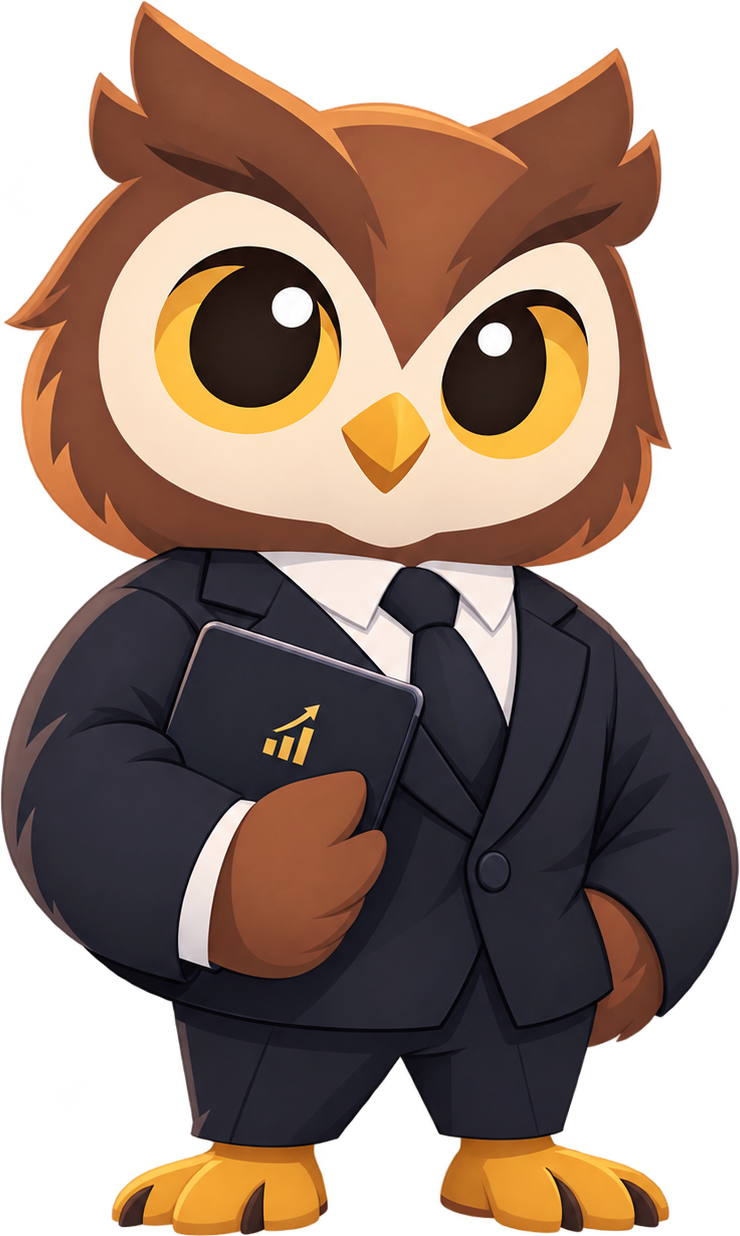
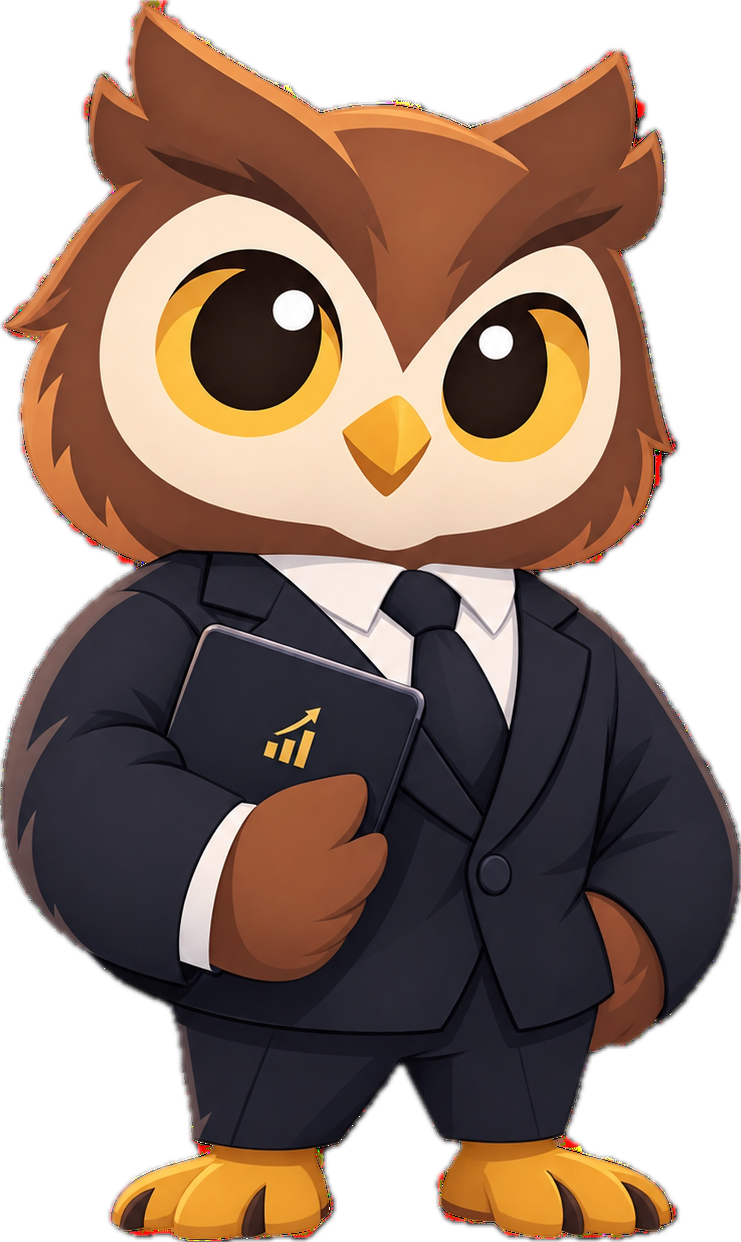
Your new full-body Hoot (the suited owl with the growth tablet) is now the mascot everywhere — shown as the complete image with transparent background, no cropping:
- Sidebar brand, mobile top bar, the "Ask Hoot" coach header and chat avatars, the Hoot coaching bubbles on every page, the bottom-nav Coach button, and the celebration pop-up all use the whole figure.
- Switched the avatar rendering to `object-contain` with a soft drop shadow so the entire owl always displays cleanly on the dark glass.

Looks sharp in the Coach header. Want me to make Hoot bigger/more prominent anywhere specific (e.g. a large standing Hoot greeting on the dashboard or empty Coach screen)?

Emergent-Commit-Key: bba1591e6b419571bba286a1ec421c00196c7066f42a484b9fb775505d36a9c3

diff --git a/frontend/src/pages/Welcome.jsx b/frontend/src/pages/Welcome.jsx
@@ -10,8 +10,8 @@ export default function Welcome() {
     <div className="wc-app-bg min-h-screen flex flex-col">
       <header className="flex items-center justify-between px-5 sm:px-10 py-5">
         <div className="flex items-center gap-3">
-          <div className="w-10 h-10 rounded-full overflow-hidden ring-1 ring-indigo-500/40">
-            <img src={OWL} alt="owl" className="w-full h-full object-cover" />
+          <div className="w-10 h-10 grid place-items-center">
+            <img src={OWL} alt="owl" className="w-full h-full object-contain" />
           </div>
           <span className="font-head font-extrabold text-lg">Wealth Coach</span>
         </div>
@@ -30,10 +30,9 @@ export default function Welcome() {
           initial={{ scale: 0.7, opacity: 0 }}
           animate={{ scale: 1, opacity: 1 }}
           transition={{ type: "spring", stiffness: 120, damping: 12 }}
-          className="w-36 h-36 sm:w-44 sm:h-44 rounded-full overflow-hidden mb-8 ring-2 ring-amber-400/30 wc-float"
-          style={{ boxShadow: "0 0 60px rgba(99,102,241,0.3)" }}
+          className="w-36 h-36 sm:w-44 sm:h-44 grid place-items-center mb-8 wc-float"
         >
-          <img src={OWL} alt="Hoot the owl" className="w-full h-full object-cover" />
+          <img src={OWL} alt="Hoot the owl" className="w-full h-full object-contain drop-shadow-[0_10px_30px_rgba(0,0,0,0.5)]" />
         </motion.div>
 
         <motion.h1

diff --git a/frontend/src/components/OwlMascot.jsx b/frontend/src/components/OwlMascot.jsx
@@ -4,11 +4,11 @@ import { motion } from "framer-motion";
 export function OwlAvatar({ size = 48, className = "", float = false }) {
   return (
     <div
-      className={`relative shrink-0 rounded-full overflow-hidden bg-[#16171C] ${float ? "wc-float" : ""} ${className}`}
-      style={{ width: size, height: size, border: "1px solid rgba(255,255,255,0.1)" }}
+      className={`relative shrink-0 grid place-items-center ${float ? "wc-float" : ""} ${className}`}
+      style={{ width: size, height: size }}
       data-testid="owl-avatar"
     >
-      <img src={OWL} alt="Hoot the owl" className="w-full h-full object-cover" />
+      <img src={OWL} alt="Hoot the owl" className="w-full h-full object-contain drop-shadow-[0_4px_10px_rgba(0,0,0,0.5)]" />
     </div>
   );
 }

diff --git a/frontend/src/pages/Auth.jsx b/frontend/src/pages/Auth.jsx
@@ -42,8 +42,8 @@ export default function Auth({ mode }) {
         className="w-full max-w-md"
       >
         <button onClick={() => navigate("/")} className="flex items-center gap-3 mb-8 mx-auto">
-          <div className="w-12 h-12 rounded-full overflow-hidden ring-1 ring-indigo-500/40">
-            <img src={OWL} alt="owl" className="w-full h-full object-cover" />
+          <div className="w-14 h-14 grid place-items-center">
+            <img src={OWL} alt="owl" className="w-full h-full object-contain drop-shadow" />
           </div>
         </button>
         <div className="wc-card p-7">

diff --git a/frontend/src/lib/assets.js b/frontend/src/lib/assets.js
@@ -1,4 +1,4 @@
 const base = process.env.PUBLIC_URL || "";
-export const OWL = `${base}/owl-head.png`;
-export const OWL_FULL = `${base}/owl-full.png`;
-export const OWL_CELEBRATE = `${base}/owl-full.png`;
+export const OWL = `${base}/owl-full.png?v=2`;
+export const OWL_FULL = `${base}/owl-full.png?v=2`;
+export const OWL_CELEBRATE = `${base}/owl-full.png?v=2`;
